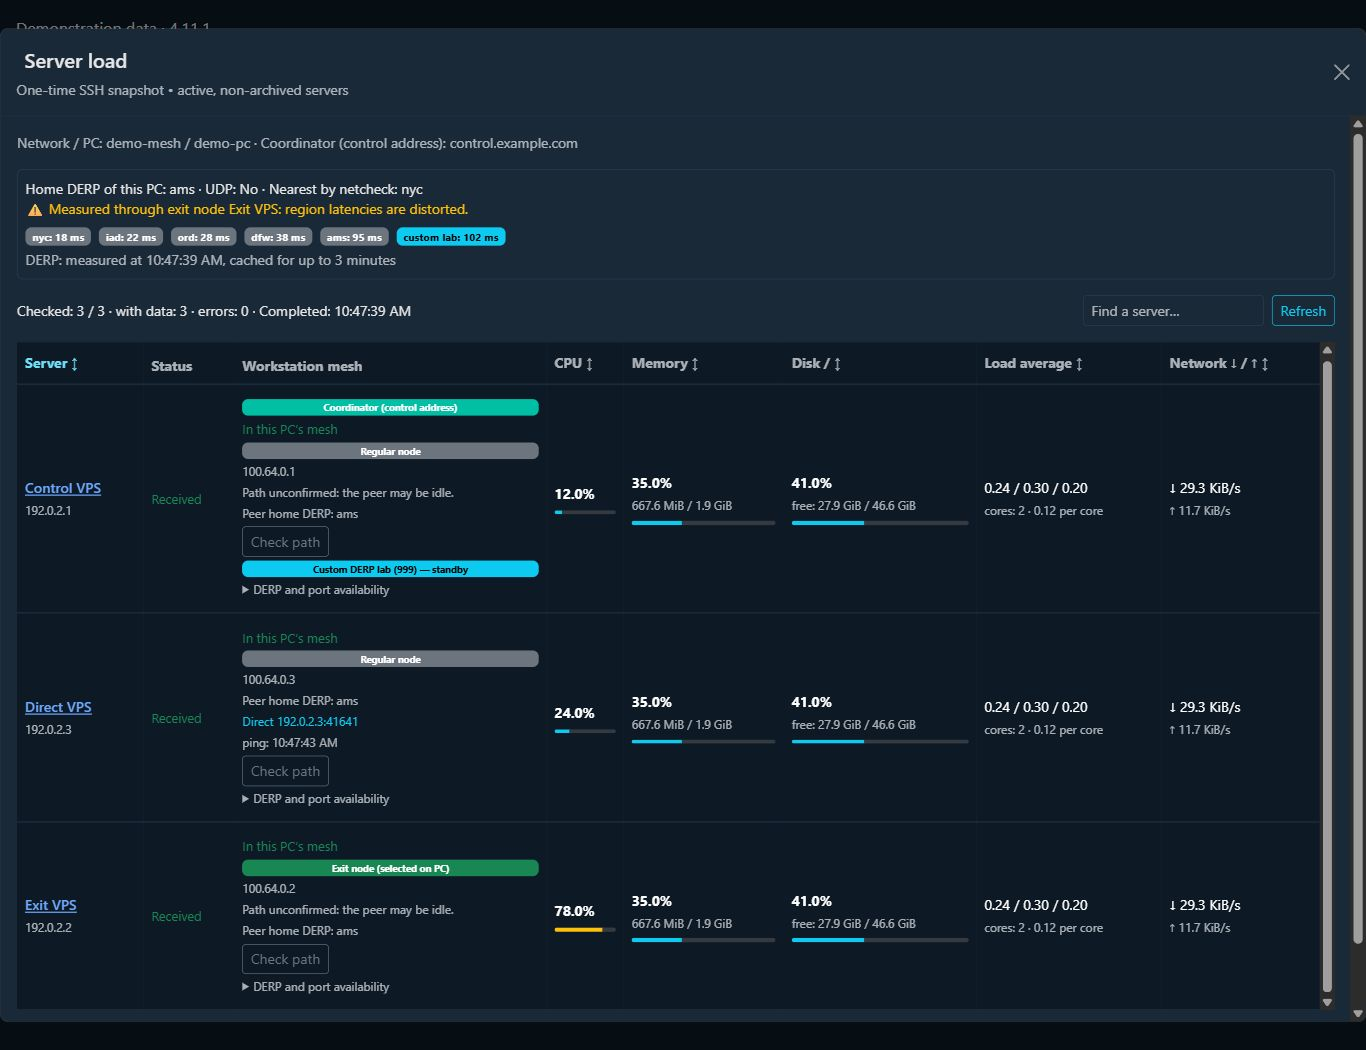
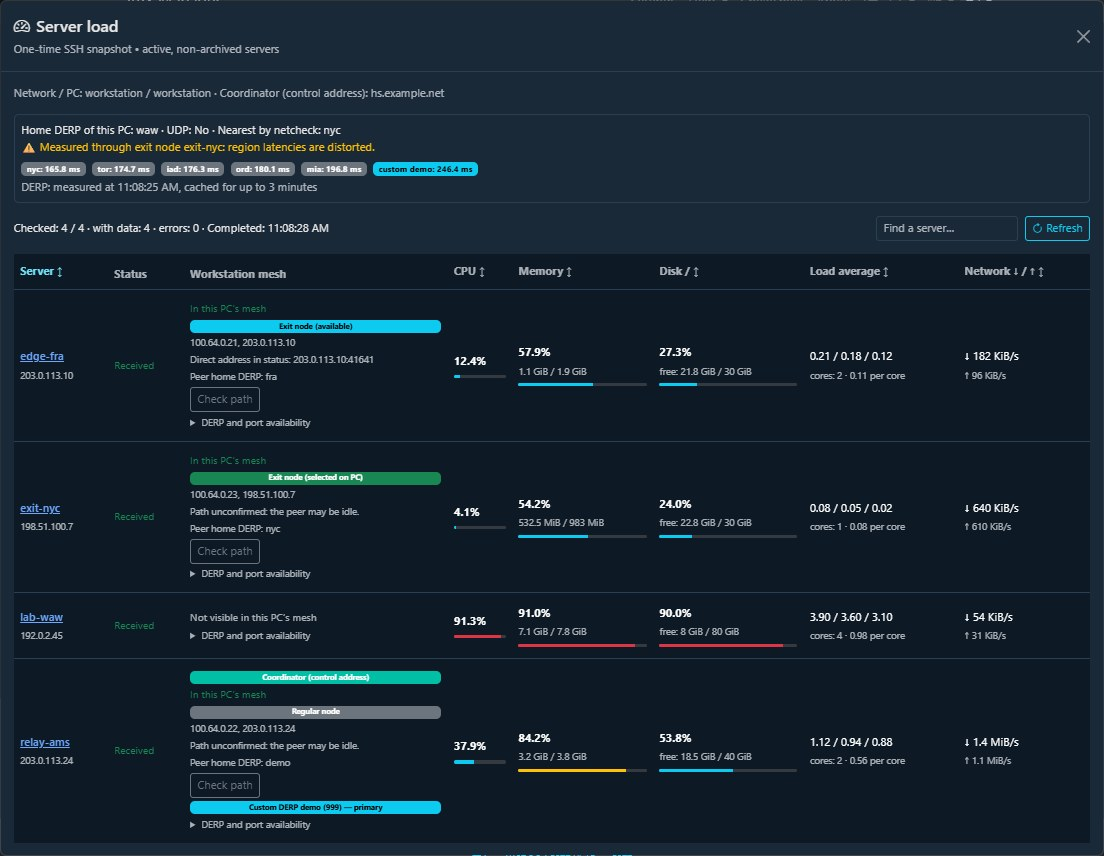
Refresh DERP measurement when the exit node changes; release 4.12.10
The cached netcheck result is dropped once the exit node, home DERP or Tailscale state changes. README gets new demo screenshots of Server load and Projects; CHANGELOG covers 4.12.10.

diff --git a/app/services/derp_context.py b/app/services/derp_context.py
@@ -12,6 +12,7 @@ from .mesh_context import read_tailscale, tailscale_executable
 _lock = threading.Lock()
 _cache = None
 _expires = 0
+_key = None
 
 
 def summarize_derp(status, report, derp_map, coordinator=''):
@@ -49,22 +50,35 @@ def summarize_derp(status, report, derp_map, coordinator=''):
             'checked_at': int(time.time()), 'cache_seconds': 180}
 
 
+def network_key(status):
+    peers = [node for node in (status.get('Peer') or {}).values() if isinstance(node, dict)]
+    exit_id = ((status.get('ExitNodeStatus') or {}).get('ID')
+               or next((p.get('ID') for p in peers if p.get('ExitNode') is True), None))
+    return status.get('BackendState'), exit_id, (status.get('Self') or {}).get('Relay')
+
+
 def local_derp():
-    global _cache, _expires
+    global _cache, _expires, _key
     # Serialize netcheck and coalesce concurrent viewers into the same cached result.
     if not _lock.acquire(timeout=12): return {'state': 'unavailable'}
     try:
-        if _cache is not None and time.monotonic() < _expires: return _cache
         executable = tailscale_executable()
         result = {'state': 'unavailable'}
         deadline = time.monotonic() + 12
+        status, key = None, None
+        def read(args, cap=3):
+            remaining = deadline - time.monotonic()
+            if remaining <= 0: raise ValueError('timeout')
+            return read_tailscale(executable, args, timeout=min(cap, remaining))
         if executable:
-            def read(args, cap=3):
-                remaining = deadline - time.monotonic()
-                if remaining <= 0: raise ValueError('timeout')
-                return read_tailscale(executable, args, timeout=min(cap, remaining))
             try:
                 status = read(['status', '--json'])
+                key = network_key(status)
+            except (OSError, ValueError, TypeError, AttributeError, subprocess.SubprocessError): pass
+        # A cached netcheck describes the old route once the exit node or home DERP changes.
+        if _cache is not None and time.monotonic() < _expires and key == _key: return _cache
+        if status is not None:
+            try:
                 if status.get('BackendState') != 'Running': raise ValueError('disconnected')
                 try:
                     coordinator = urlsplit(read(['debug', 'prefs']).get('ControlURL', '')).hostname or ''
@@ -75,7 +89,7 @@ def local_derp():
                 except (OSError, ValueError, TypeError, subprocess.SubprocessError): report = {}
                 result = summarize_derp(status, report, derp_map, coordinator)
             except (OSError, ValueError, TypeError, AttributeError, subprocess.SubprocessError): pass
-        _cache = result
+        _cache, _key = result, key
         _expires = time.monotonic() + (180 if result['state'] == 'ready' else 15)
         return result
     finally:

diff --git a/tests/test_services/test_derp_context.py b/tests/test_services/test_derp_context.py
@@ -80,12 +80,35 @@ def test_local_cache_does_not_repeat_netcheck_or_expose_prefs(monkeypatch):
     monkeypatch.setattr(derp, '_expires', 0)
     monkeypatch.setattr(derp, 'tailscale_executable', lambda: 'tailscale')
     read = Mock(side_effect=[STATUS, {'ControlURL': 'https://control.example.com', 'key': 'secret-marker'},
-                             MAP, {'UDP': True, 'PreferredDERP': 1, 'RegionLatency': {'999': 50000000}}])
+                             MAP, {'UDP': True, 'PreferredDERP': 1, 'RegionLatency': {'999': 50000000}}, STATUS])
     monkeypatch.setattr(derp, 'read_tailscale', read)
     first = derp.local_derp()
-    assert first == derp.local_derp() and read.call_count == 4
-    assert 'secret-marker' not in json.dumps(first)
     assert 0 < read.call_args.kwargs['timeout'] <= 12
+    assert first == derp.local_derp() and read.call_count == 5
+    assert [call.args[1][0] for call in read.call_args_list].count('netcheck') == 1
+    assert 'secret-marker' not in json.dumps(first)
+
+
+@pytest.mark.parametrize('change', [
+    {'ExitNodeStatus': {'ID': 'other'}},
+    {'Self': {'ID': 'pc', 'Relay': 'waw'}},
+    {'BackendState': 'Stopped'},
+])
+def test_local_cache_resets_when_exit_node_home_derp_or_state_changes(monkeypatch, change):
+    monkeypatch.setattr(derp, '_cache', None)
+    monkeypatch.setattr(derp, '_expires', 0)
+    monkeypatch.setattr(derp, 'tailscale_executable', lambda: 'tailscale')
+    report = {'UDP': True, 'PreferredDERP': 1, 'RegionLatency': {'1': 1000000}}
+    changed = {**STATUS, **change}
+    read = Mock(side_effect=[STATUS, {}, MAP, report, changed, {}, MAP, report])
+    monkeypatch.setattr(derp, 'read_tailscale', read)
+    derp.local_derp()
+    second = derp.local_derp()
+    netchecks = [call.args[1][0] for call in read.call_args_list].count('netcheck')
+    if changed['BackendState'] == 'Running':
+        assert netchecks == 2 and second['state'] == 'ready'
+    else:
+        assert netchecks == 1 and second['state'] == 'unavailable'
 
 
 def test_netcheck_timeout_keeps_own_regions_unknown(monkeypatch):

diff --git a/README.md b/README.md
@@ -26,17 +26,22 @@
 
 VPN Server Manager keeps server logins, panel credentials, domains and provider details in an encrypted local vault. Compare server load, inspect services over SSH, and see which machines belong to the Tailscale network of the PC running the app. Open it as a native desktop window or in a browser; a Telegram bot is optional.
 
-**Latest patch · 4.12.4:** Monitoring and Server Status now share the application's light and dark themes, with prominent resource readings, section navigation and expandable diagnostic details. [Changelog →](CHANGELOG.md#4124---2026-10-12)
+**Latest patch · 4.12.10:** Hover over a DERP latency to see which hops it covers, and switching exit nodes now triggers a fresh measurement instead of showing a cached one. Recent releases also added **Projects**, RDAP registrar lookup and the redesigned Monitoring. [Changelog →](CHANGELOG.md#41210---2026-10-13)
 
 ## See your fleet at a glance
 
 Open **Server load** next to DNS to compare CPU, memory, disk space, load averages and network traffic across active servers. Filter by name or address and sort by the metric that matters.
 
-Open **Projects** beside it to see which servers run your own projects, such as BotCriptoM, Rust File Manager or UGCTL, and how many of each project's services and containers are up. Server Status and Monitoring list the same projects for one server. **Edit list** adds or removes projects by their systemd service and Docker container names.
+<p align="center">
+  <img src="docs/images/07-load-mesh-overview.jpg" alt="Server load overview with resource metrics, Tailscale membership, coordinator and exit-node roles, and DERP region latency measured through the selected exit node" width="1100">
+  <br><sub>v4.12.10 · English interface · demonstration servers and addresses</sub>
+</p>
+
+Open **Projects** beside it to see which servers run your own projects, such as BotCriptoM, Rust File Manager or UGCTL, and how many of each project's services, containers and processes are up. Server Status and Monitoring list the same projects for one server. **Edit list** adds or removes projects by their systemd service, Docker container and process names.
 
 <p align="center">
-  <img src="docs/images/07-load-mesh-overview.jpg" alt="Server load overview with resource metrics, Tailscale membership, coordinator and exit-node roles, and DERP region latency" width="1100">
-  <br><sub>v4.11.1 · English interface · demonstration servers and addresses</sub>
+  <img src="docs/images/09-projects.jpg" alt="Projects overview showing on which servers each tracked project runs and how many of its services, containers and processes are up" width="640">
+  <br><sub>v4.12.10 · demonstration servers</sub>
 </p>
 
 | What you want to know | Where to look |
@@ -44,7 +49,7 @@ Open **Projects** beside it to see which servers run your own projects, such as 
 | **Which server is under pressure?** | CPU, memory and disk meters; sortable load and traffic columns. |
 | **Is it in this PC's mesh?** | The mesh column matches visible Tailscale peers and shows regular nodes, available exits and the exit selected on the PC. |
 | **Where is the coordinator?** | The control endpoint is named above the table and marked on matching server cards. |
-| **Which relay is closest?** | The DERP summary shows measured region latencies, highlights custom regions and warns when netcheck runs through an exit node. |
+| **Which relay is closest?** | The DERP summary shows measured region latencies and highlights custom regions. Hover over a latency to see what it measures. With an exit node selected, netcheck runs through it, so each latency is PC → exit node → region; the home DERP is still chosen directly by Tailscale. |
 
 ## Understand the connection, not just the status
 

diff --git a/docs/README_MONITORING_ru.md b/docs/README_MONITORING_ru.md
@@ -417,6 +417,8 @@ systemctl --failed --no-legend --plain
 У строки сводки и у плашек регионов есть всплывающие подсказки о том, между
 чем измерено время. Это отдельный асинхронный запрос с бюджетом
 12 секунд; результат хранится только в памяти до 3 минут, время замера видно.
+Перед выдачей кэша приложение читает `tailscale status` и делает новый замер,
+если сменились exit node, домашний DERP или состояние подключения.
 
 `Relay` у пира — его домашний DERP, а не доказательство текущей ретрансляции.
 Пустой `CurAddr` возможен у простаивающего узла. Непустой адрес показывается

diff --git a/CHANGELOG.md b/CHANGELOG.md
@@ -2,6 +2,14 @@
 
 All notable changes to VPN Server Manager. Format: [Keep a Changelog](https://keepachangelog.com/en/1.1.0/). Versioning: [SemVer](https://semver.org/).
 
+## [4.12.10] - 2026-10-13
+
+### Added
+- Hovering over the DERP summary and region latencies in **Server load** explains what each value is. A region latency is the round trip from this PC to that DERP server; with an exit node selected, the tooltip shows the route through the exit node.
+
+### Fixed
+- The DERP measurement is repeated as soon as the exit node, the home DERP region or the Tailscale connection state changes. Before, the previous result stayed cached for up to 3 minutes, so switching exit nodes appeared to have no effect on latencies.
+
 ## [4.12.9] - 2026-10-12
 
 ### Changed
